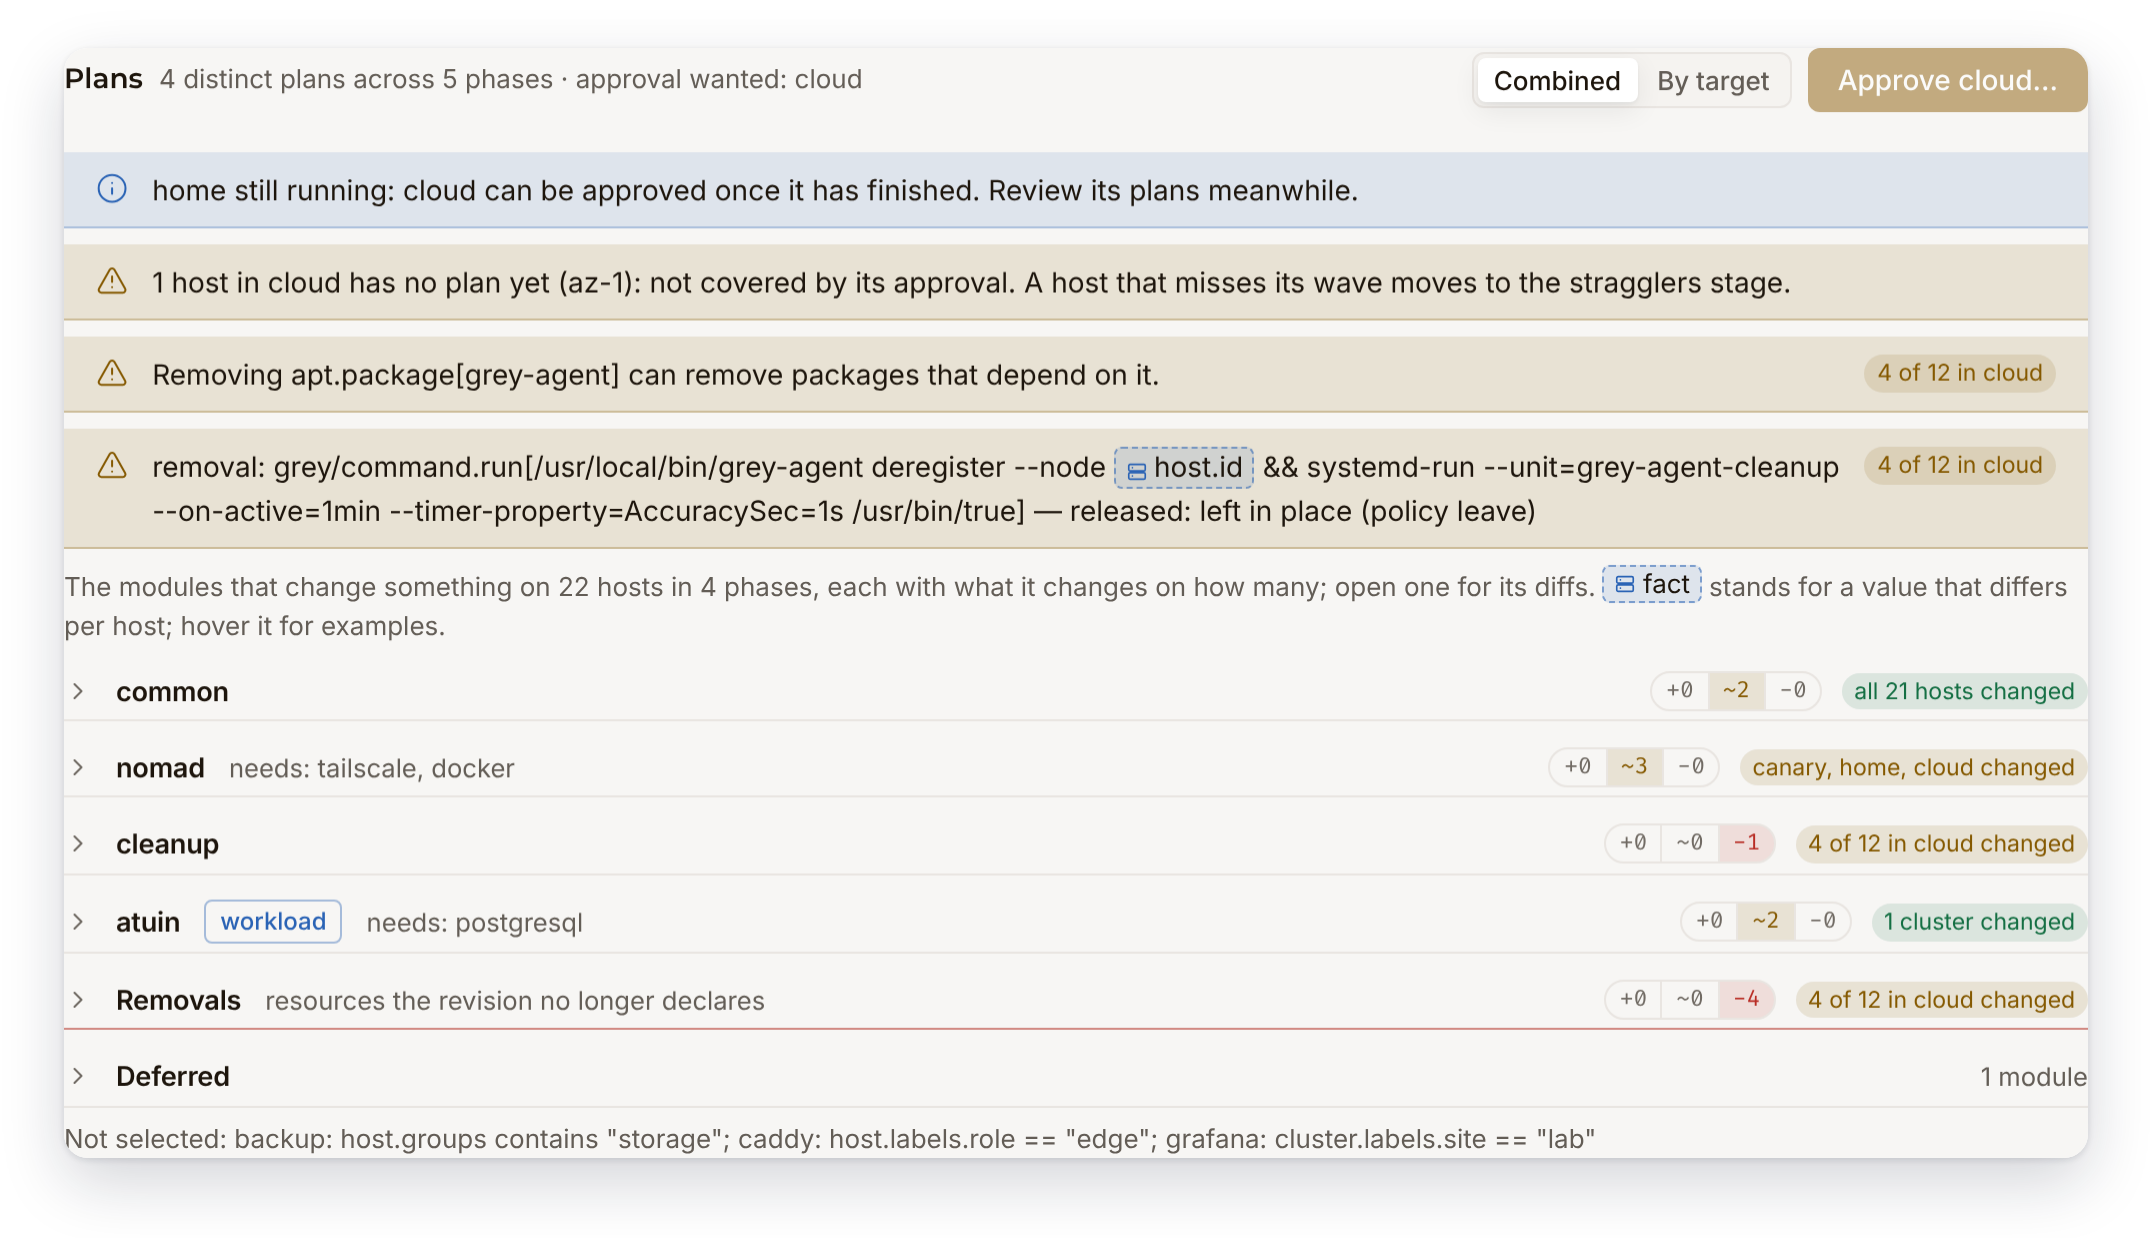
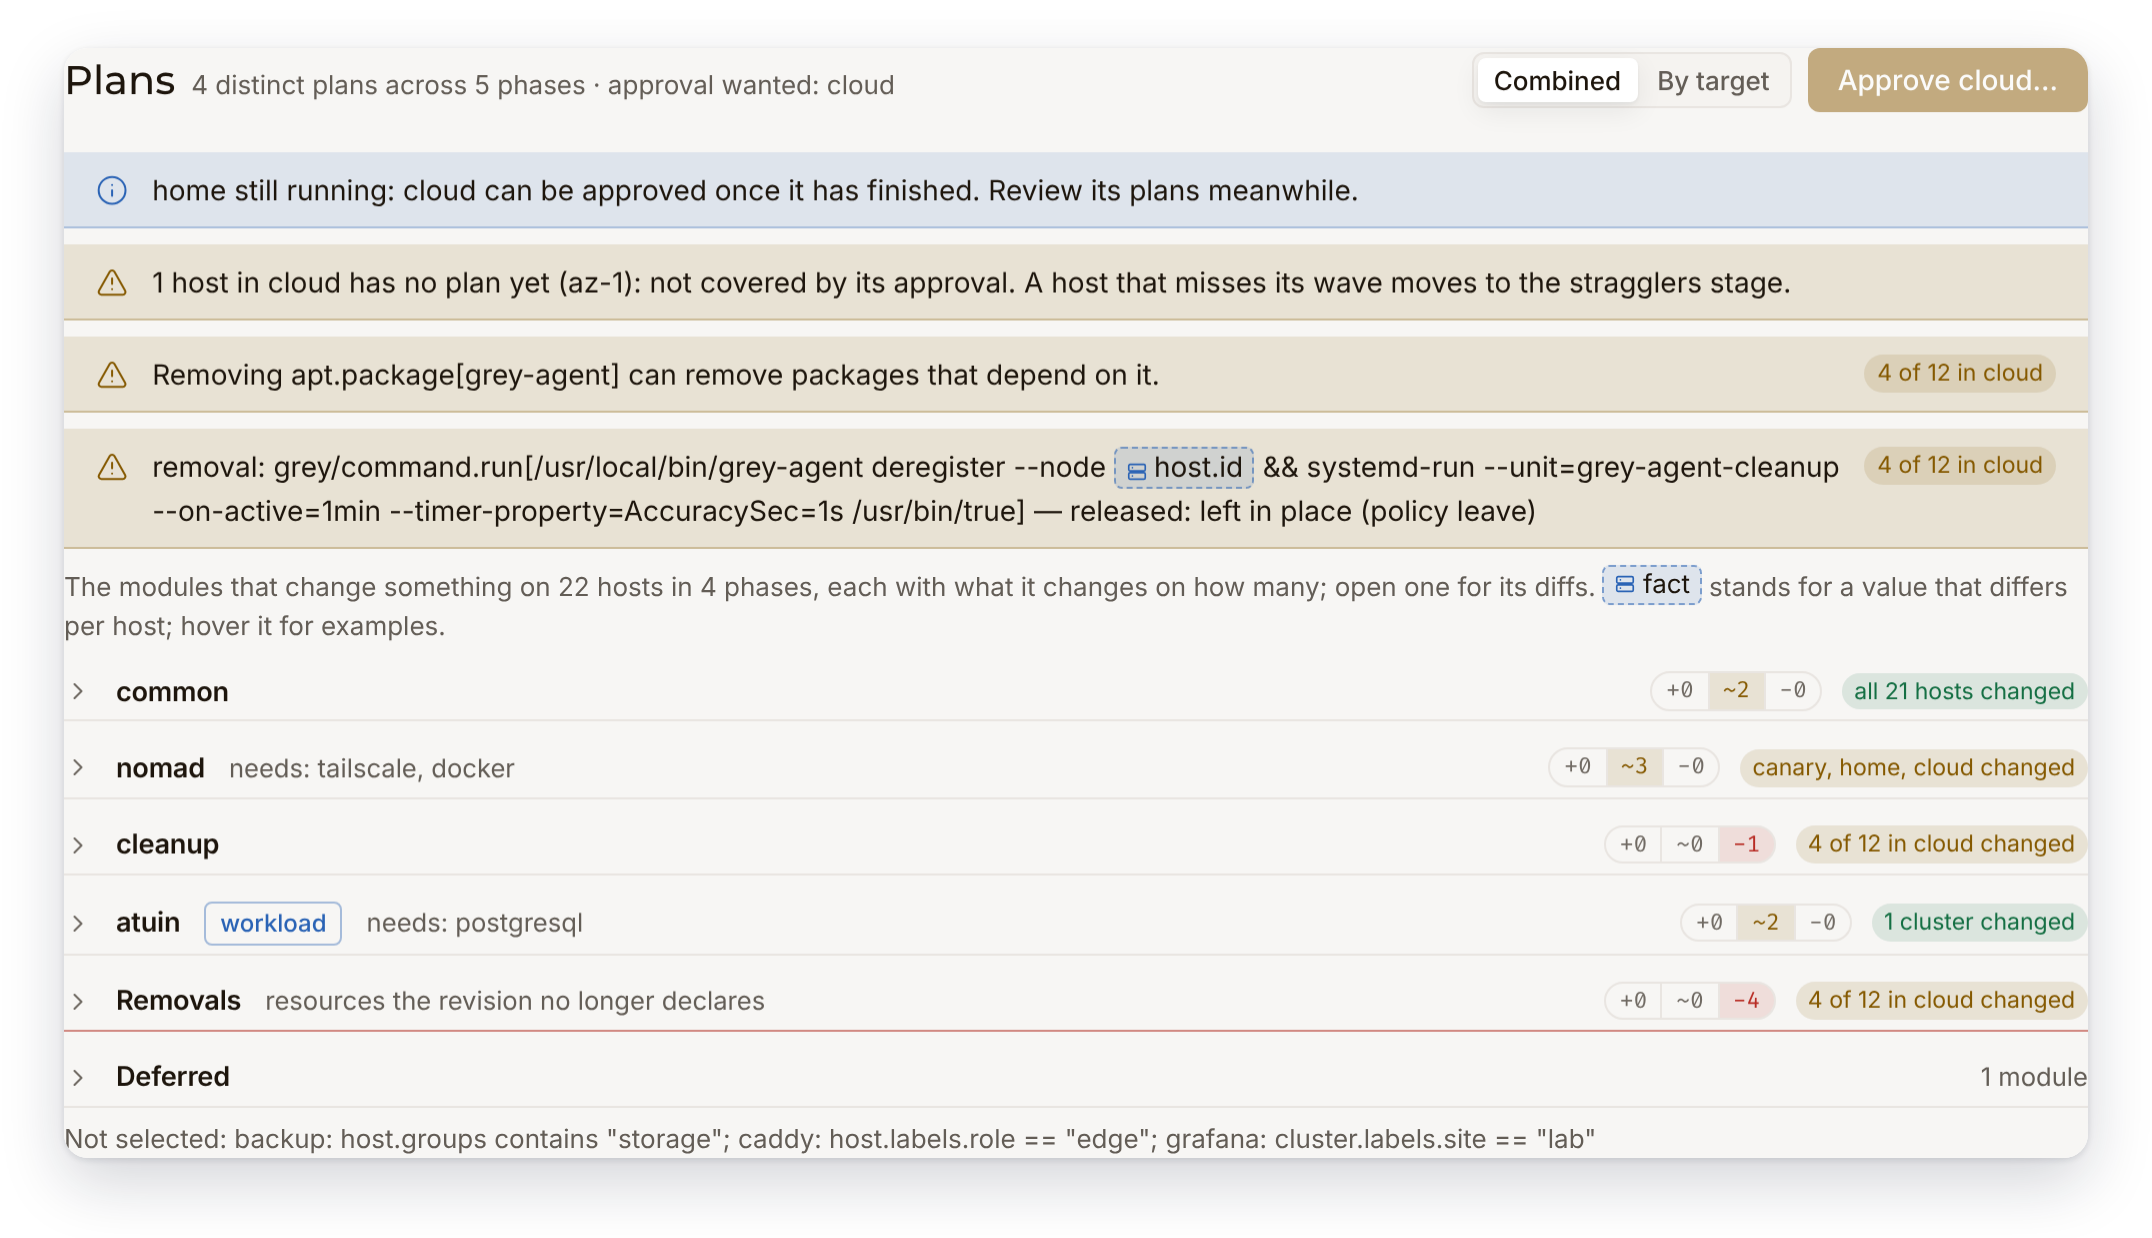
fix(ui): address review of the yewi port
- Commit rows wrap their hash, marker and controls under the message on
  a phone instead of squeezing the message into a column.
- Section headings are a step below the page title, not body size.
- A registration's Approve sits at the right end of its banner.
- A host's or cluster's audit entries open from its actions menu (a link
  in the head for readers without one).
- yewi 0.2.2: the app bar's phone wrap comes from the library.

Claude-Session: https://claude.ai/code/session_01WkowUvB6vjHFJmyrntV1ZW

diff --git a/ui/styles/_layout.scss b/ui/styles/_layout.scss
@@ -17,31 +17,7 @@
   margin-inline: auto;
 }
 
-// On a phone the bar has no room for the box beside everything else, so it
-// takes a second row. (yewi 0.3 has this as `AppBar::wrap`.)
 @media (max-width: $small) {
-  .shell__bar:has(.shell__search) {
-    flex-wrap: wrap;
-    block-size: auto;
-    min-block-size: var(--yi-app-bar-height);
-
-    > :not(.yi-app-bar__start) {
-      min-block-size: var(--yi-app-bar-height);
-    }
-
-    > .yi-app-bar__actions {
-      margin-inline-start: auto;
-    }
-
-    > .yi-app-bar__start {
-      flex: none;
-      order: 1;
-      inline-size: 100%;
-      min-block-size: var(--yi-app-bar-height);
-      margin-block-start: calc(var(--yi-space-sm) * -1);
-    }
-  }
-
   // The word is on every page's badge in demo mode; the box needs the row.
   .shell__bar .badge {
     display: none;

diff --git a/ui/styles/_pages.scss b/ui/styles/_pages.scss
@@ -872,6 +872,12 @@
     flex-wrap: wrap;
   }
 
+  // The subject and message take the row; the hash, marker and controls
+  // wrap beneath them instead of squeezing them into a column.
+  .commit__main {
+    flex-basis: 100%;
+  }
+
   .commit__aside {
     justify-content: flex-start;
   }
@@ -1121,4 +1127,26 @@ tr[id] {
 
 .pending {
   margin-bottom: 0.75rem;
+}
+
+// Each registration's Approve sits at the right end of its line, where the
+// page's other actions are.
+.pending .yi-banner__message {
+  flex: 1;
+}
+
+.pending__body {
+  display: flex;
+  flex-wrap: wrap;
+  align-items: center;
+  gap: 0.35rem 0.75rem;
+
+  .banner__item {
+    flex: 1 1 16rem;
+    gap: 0.5rem;
+  }
+
+  .yi-button {
+    margin-left: auto;
+  }
 }

diff --git a/ui/styles/_controls.scss b/ui/styles/_controls.scss
@@ -109,6 +109,14 @@ $tones: (
     margin-top: var(--yi-space-2xl);
   }
 
+  // With no card around it, the heading is what sets a section apart: a
+  // step below the page's title rather than the size of body text.
+  > .yi-panel__header .yi-panel__title {
+    font-size: var(--yi-text-2xl);
+    font-weight: 500;
+    line-height: 1.3;
+  }
+
   > .yi-panel__body {
     padding-block-start: var(--yi-space-md);
   }

diff --git a/ui/styles/_runs.scss b/ui/styles/_runs.scss
@@ -621,10 +621,10 @@
 
 // A host page's run section: the picker beside the title, or under it when
 // there is no room.
-.run-panel > .panel__head {
+.run-panel > .yi-panel__header {
   flex-wrap: wrap;
 
-  .panel__actions {
+  .yi-panel__actions {
     flex-wrap: wrap;
     min-width: 0;
   }

diff --git a/ui/src/pages/cluster.rs b/ui/src/pages/cluster.rs
@@ -229,7 +229,7 @@ pub fn cluster_page(props: &Props) -> Html {
                     forgettable: !declared,
                     ..Default::default()
                 });
-                target_items(&own, primary, Vec::new(), |a| match a {
+                target_items(&own, primary, vec![crate::components::actions::audit_item(navigator.clone(), &c.id)], |a| match a {
                     TargetAction::ApproveRollout => {
                         let (navigator, id) = (navigator.clone(), review.clone().unwrap_or_default());
                         Callback::from(move |_: MouseEvent| {
@@ -249,6 +249,8 @@ pub fn cluster_page(props: &Props) -> Html {
                     TargetAction::ApproveRegistration | TargetAction::UpgradeAgent => Callback::noop(),
                 })
             }} menu_label="More cluster actions" testid="cluster-actions" />
+        } else {
+            { crate::components::actions::audit_link(&c.id) }
         }
     </> };
     let kind = info
@@ -448,11 +450,6 @@ pub fn cluster_page(props: &Props) -> Html {
             <ModulesPanel detail={d.clone()} cluster=true on_action={on_action.clone()} on_check_drift={on_check_drift.clone()} newest={newest.clone()} picked={(*picked).clone()}
                 on_pick={{ let picked = picked.clone(); Callback::from(move |run| picked.set(run)) }} />
             <Panel title="Recent runs">{ runs(&d, now, shown, &show_run) }</Panel>
-            <p class="muted small">
-                <RouteLink to={Route::Audit} query={vec![("filter".to_string(), crate::logic::filter::equals("subject", &c.id))]}>
-                    { format!("Audit entries for {}", c.id) }
-                </RouteLink>
-            </p>
             { dialog.unwrap_or_default() }
             { target_actions.dialog }
         </div>

diff --git a/ui/src/pages/host.rs b/ui/src/pages/host.rs
@@ -241,11 +241,15 @@ pub fn host_page(props: &Props) -> Html {
                 && h.applied_revision.is_some(),
             forgettable: true,
         });
-        let modules: Vec<MenuItem> = if can_act {
+        let mut modules: Vec<MenuItem> = if can_act {
             action_items(&d.actions, &on_action, Some("Module actions"))
         } else {
             Vec::new()
         };
+        modules.push(crate::components::actions::audit_item(
+            navigator.clone(),
+            &h.id,
+        ));
         let items = target_items(&own, primary, modules, |a| match a {
             TargetAction::ApproveRegistration => open(Ask::Approve),
             TargetAction::ApproveRollout => {
@@ -267,7 +271,7 @@ pub fn host_page(props: &Props) -> Html {
         });
         html! { <SplitButton {items} menu_label="More host actions" testid="host-actions" /> }
     } else {
-        html! {}
+        crate::components::actions::audit_link(&h.id)
     };
     let actions = html! { <>{ refresh }{ actions }</> };
 
@@ -383,11 +387,6 @@ pub fn host_page(props: &Props) -> Html {
                     <JsonTree value={d.facts.clone()} open={1} />
                 }
             </Panel>
-            <p class="muted small">
-                <RouteLink to={Route::Audit} query={vec![("filter".to_string(), crate::logic::filter::equals("subject", &h.id))]}>
-                    { format!("Audit entries for {}", h.id) }
-                </RouteLink>
-            </p>
             { dialog.unwrap_or_default() }
             { target_actions.dialog }
         </div>

diff --git a/ui/src/components/actions.rs b/ui/src/components/actions.rs
@@ -97,6 +97,32 @@ pub fn target_items(
         .collect()
 }
 
+/// Where a target's audit entries are listed: the audit log filtered to it.
+pub fn audit_target(subject: &str) -> yewi::NavTarget {
+    yewi::NavTarget::route(crate::app::Route::Audit)
+        .query([("filter", crate::logic::filter::equals("subject", subject))])
+}
+
+/// "Audit entries" as an item of a target's menu, opening its audit log.
+pub fn audit_item(navigator: Option<yew_router::prelude::Navigator>, subject: &str) -> MenuItem {
+    let filter = crate::logic::filter::equals("subject", subject);
+    MenuItem::new(
+        "Audit entries",
+        Callback::from(move |_: MouseEvent| {
+            if let Some(n) = &navigator {
+                let _ = n.push_with_query(&crate::app::Route::Audit, &[("filter", filter.clone())]);
+            }
+        }),
+    )
+}
+
+/// The same for a reader without a menu of actions: a link in the page's head.
+pub fn audit_link(subject: &str) -> Html {
+    html! {
+        <yewi::Button variant={yewi::ButtonVariant::Subtle} href={audit_target(subject)}>{ "Audit entries" }</yewi::Button>
+    }
+}
+
 #[derive(Properties, PartialEq)]
 pub struct ActionsButtonProps {
     pub actions: Vec<ActionInfo>,

diff --git a/ui/src/pages/hosts.rs b/ui/src/pages/hosts.rs
@@ -259,6 +259,7 @@ pub fn hosts() -> Html {
             html! { <>
                 if !pending.is_empty() {
                     <Banner tone={Tone::Info} class="pending" attrs={attrs! { "data-testid" => "pending-registrations" }}>
+                        <div class="pending__body">
                         <strong>{ format!("{} awaiting registration approval: ", pending.len()) }</strong>
                         { for pending.iter().map(|h| {
                             let id = h.id.clone();
@@ -273,6 +274,7 @@ pub fn hosts() -> Html {
                                 </span>
                             }
                         }) }
+                        </div>
                     </Banner>
                 }
                 <div class="toolbar">

diff --git a/ui/src/components/shell.rs b/ui/src/components/shell.rs
@@ -74,7 +74,7 @@ pub fn shell(props: &ShellProps) -> Html {
         <UserArea />
     </> };
     let bar = html! {
-        <AppBar class="shell__bar" {brand} {actions} menu_label="Navigation">
+        <AppBar class="shell__bar" {brand} {actions} menu_label="Navigation" wrap={super::search::searchable(&route)}>
             if crate::fixtures::is_demo() {
                 <Badge tone={Tone::Info} title="Every answer comes from the built-in fixtures. Add ?demo=off to leave.">{ "demo" }</Badge>
             }

diff --git a/ui/src/components/search.rs b/ui/src/components/search.rs
@@ -46,6 +46,11 @@ fn search(route: &Route) -> Option<Search> {
     }
 }
 
+/// Whether the page at `route` is searched from the app bar.
+pub fn searchable(route: &Route) -> bool {
+    search(route).is_some()
+}
+
 /// What each audit field holds, for the box's suggestions.
 fn audit_fields() -> Rc<[QueryField]> {
     AUDIT_FIELDS
